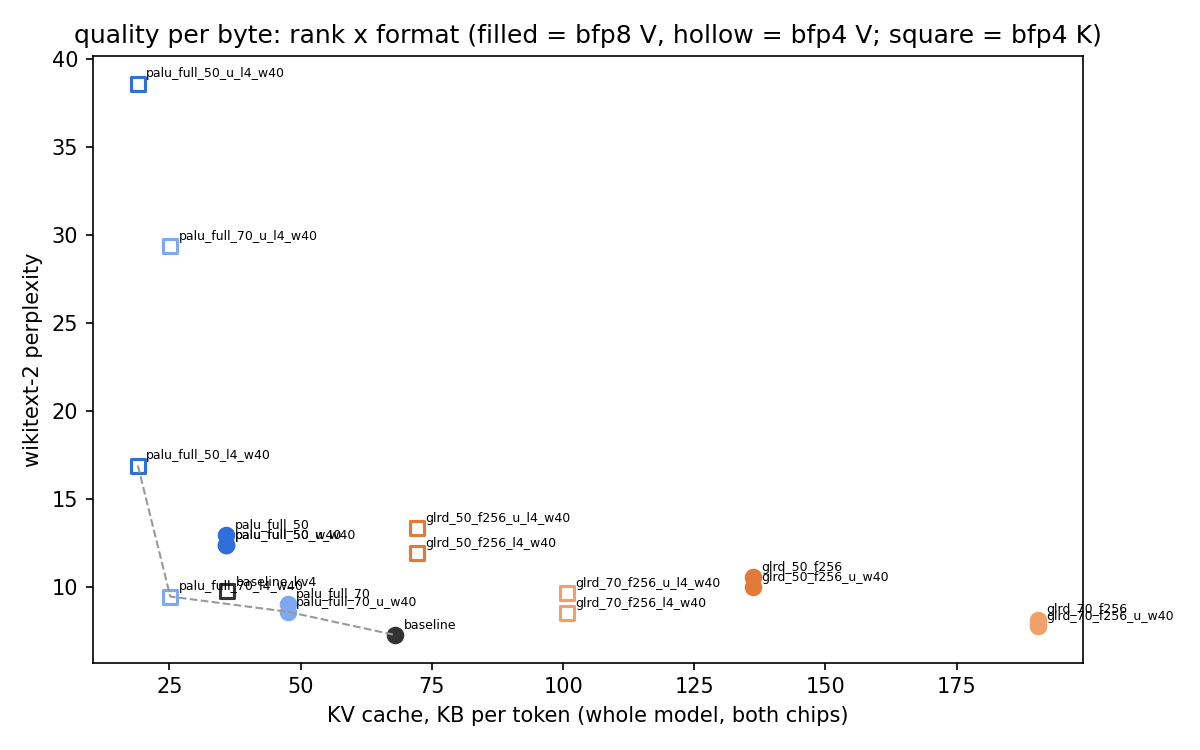
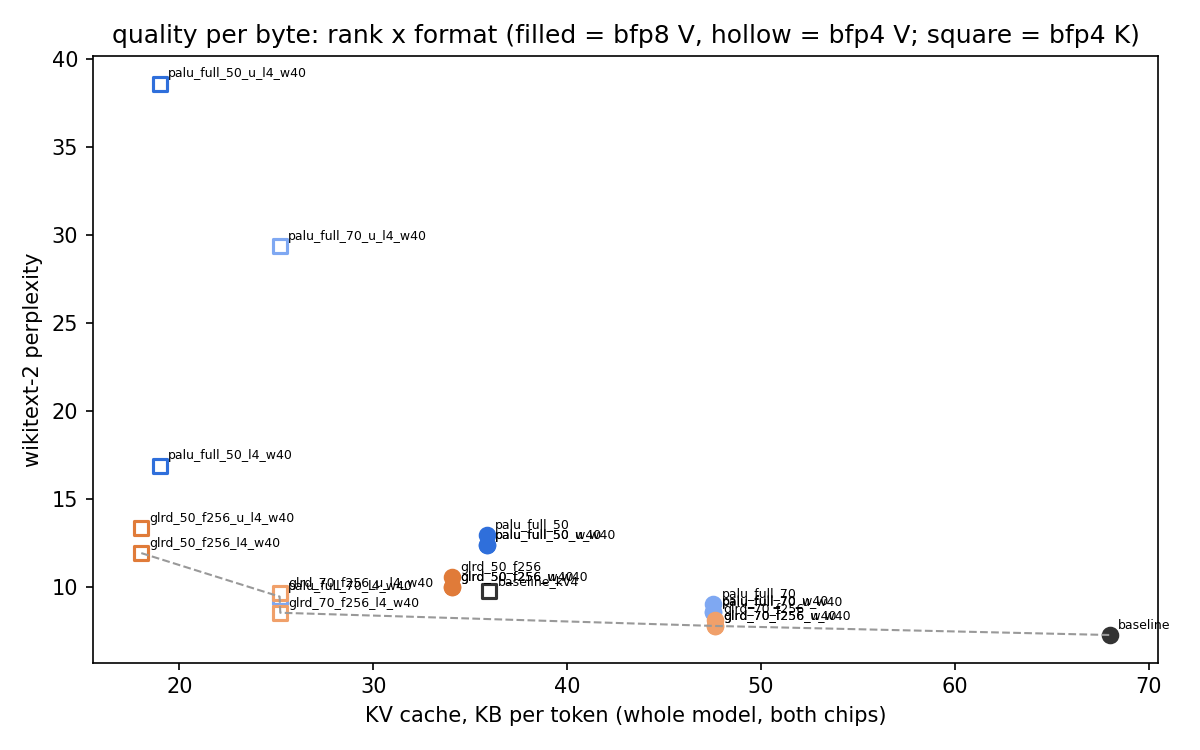
Stage 2f: frontier bytes follow the dump's groups per chip; decode/maxctx columns read the fused rows
Claude-Session: https://claude.ai/code/session_01SEbH3ediiqrAP9zmP59kKs

diff --git a/palu_tt/report.py b/palu_tt/report.py
@@ -1163,33 +1163,62 @@ def _stage2e_lines(raw, rows, loaded, steps):
 FRONTIER_RE = _re.compile(r"^(?P<dump>baseline|palu_full_50|palu_full_70|glrd_50_f256|glrd_70_f256|uni_rk\d+_rv\d+)"
                           r"(?P<kv4>_kv4)?(?P<u>_u)?(?P<fmt>_lk4|_lv4|_l4)?(?P<w40>_w40)?$")
 BPE = {"bfp8": 1.0625, "bfp4": 0.5625}  # bytes per tile element (spec sec 2)
-STOCK_BYTES_LAYER_CHIP = 4 * (HEAD_DIM * BPE["bfp8"] + HEAD_DIM * BPE["bfp8"])  # 1088 B, r_k=r_v=128 bfp8
+# Stock is 4 KV heads per chip (8 heads / 2 chips), group size 1 -- one latent group per head, so
+# this is unchanged by the groups-per-chip fix below (see ``_dump_ranks``).
+STOCK_GROUPS_PER_CHIP = 4
+STOCK_BYTES_LAYER_CHIP = STOCK_GROUPS_PER_CHIP * (HEAD_DIM * BPE["bfp8"] + HEAD_DIM * BPE["bfp8"])  # 1088 B bfp8
+
+
+def _config_groups_per_layer(cfg):
+    """Latent groups per layer for a Palu-recipe dump, from the length of one of ``head_wise_ranks``'s
+    own per-layer rank lists.
+
+    ``head_wise_ranks`` carries no explicit group-size field, so this length is the only place the
+    group count is recoverable: a per-head dump (group size 1, e.g. the M-LRD ``palu_full_*``
+    recipes) has one entry per KV head (8, for this model), while a group-shared dump (G-LRD, group
+    size 4) has one entry per *group* (2) -- ``convert.load_palu_dir``/``_per_layer_ranks`` already
+    zero-pad/broadcast these back out to per-head ranks for the device allocation, but the raw list
+    length here is the group count before that broadcast.
+    """
+    ranks = cfg["head_wise_ranks"]
+    return len(next(iter(ranks.values())))
 
 
 def _dump_ranks(dump, ranks):
-    """(mean r_k, mean r_v) for a dump: the caller's override, else derived from the dump itself.
+    """(mean r_k, mean r_v, groups per chip) for a dump: the caller's override, else derived from
+    the dump itself.
 
-    ``baseline`` is full rank by construction; a ``uni_rk<K>_rv<V>`` dump's ranks are in its own name;
-    every other dump is a Palu/G-LRD recipe whose per-layer ranks are read the same way ``_ranks``
-    reads them for stage 1/2/2b/2c -- via ``convert.load_palu_dir`` against its ``config.json``,
-    since a calibrated dump's per-head ranks are not uniform and only that reader gives the exact
-    per-layer allocation the device builds caches for. Every one of these rank sources is either the
-    caller's override, the row name, or a fixed path under ``compressed/`` -- never anything read
-    from a raw results dir -- so, unlike ``frontier_rows``' other per-row helpers, this one takes no
-    ``raw`` parameter.
+    ``baseline`` is full rank by construction, 4 KV heads per chip; a ``uni_rk<K>_rv<V>`` dump's
+    ranks are in its own name, also 4 (per-head, group size 1) heads per chip; every other dump is a
+    Palu/G-LRD recipe whose per-layer ranks are read the same way ``_ranks`` reads them for stage
+    1/2/2b/2c -- via ``convert.load_palu_dir`` against its ``config.json``, since a calibrated dump's
+    per-head ranks are not uniform and only that reader gives the exact per-layer allocation the
+    device builds caches for. Its groups-per-chip is derived from that same ``config.json`` (see
+    ``_config_groups_per_layer``): 4 for a per-head (M-LRD) dump, 1 for a group-shared (G-LRD, group
+    size 4) one, since the 8 KV heads are split evenly across the n300's two chips either way. Every
+    one of these rank sources is either the caller's override, the row name, or a fixed path under
+    ``compressed/`` -- never anything read from a raw results dir -- so, unlike ``frontier_rows``'
+    other per-row helpers, this one takes no ``raw`` parameter.
+
+    ``ranks``' override values may be a 2-tuple ``(r_k, r_v)``, which defaults groups-per-chip to 4
+    (a per-head dump, the common case in existing tests), or a 3-tuple ``(r_k, r_v, groups_per_chip)``
+    to also override the group count -- needed to exercise a group-shared (G-LRD-like) dump without
+    building a real ``compressed/`` recipe directory.
     """
     if dump in ranks:
-        return ranks[dump]
+        v = ranks[dump]
+        return (v[0], v[1], v[2]) if len(v) > 2 else (v[0], v[1], 4)
     if dump == "baseline":
-        return HEAD_DIM, HEAD_DIM
+        return HEAD_DIM, HEAD_DIM, STOCK_GROUPS_PER_CHIP
     if dump.startswith("uni_"):
         m = _re.match(r"uni_rk(\d+)_rv(\d+)", dump)
-        return int(m.group(1)), int(m.group(2))
+        return int(m.group(1)), int(m.group(2)), 4
     palu_dir = {"palu_full_50": "compressed/palu_full_0.5", "palu_full_70": "compressed/palu_full_0.7",
                 "glrd_50_f256": "compressed/glrd_0.5_f256", "glrd_70_f256": "compressed/glrd_0.7_f256"}[dump]
     cfg = json.loads((Path(palu_dir) / "config.json").read_text())
     rk, rv = _per_layer_ranks(Path(palu_dir), cfg)
-    return sum(rk) / len(rk), sum(rv) / len(rv)
+    groups_per_chip = _config_groups_per_layer(cfg) // CHIPS
+    return sum(rk) / len(rk), sum(rv) / len(rv), groups_per_chip
 
 
 def _row_is_blind(d, has_bfp4_latent_suffix):
@@ -1232,6 +1261,28 @@ def _check_row_fields(row, d, stock, k_fmt, v_fmt, scale):
                       + "; ".join(mismatches) + " -- trusting the name.")
 
 
+# A frontier row's decode_4k/maxctx columns must only ever show the fused Phase 2 decode kernel's
+# own numbers, never the naive (reconstruct-then-attend) row's -- see ``_frontier_fused_bench``.
+# Preference order: the shipped-default multicast variant (stage 2e) first, then plain fused Phase 2.
+FRONTIER_FUSED_SUFFIXES = ("_fk2dm", "_fk2")
+
+
+def _frontier_fused_bench(raw, what, row):
+    """``(data, suffix)`` for ``row``'s fused Phase 2 decode-kernel bench file, preferring
+    ``_fk2dm`` (the shipped-default rotation-kernel variant, stage 2e) over plain ``_fk2``; ``(None,
+    None)`` when neither exists.
+
+    ``bench_<what>_<row>.json`` (no suffix) is the naive, reconstruct-then-attend kernel for a
+    ``palu_full_*``/``glrd_*`` dump -- multiple times slower than the fused kernel it stands in for
+    on a decode-latency frontier -- and is never read here, on purpose, even as a fallback.
+    """
+    for suffix in FRONTIER_FUSED_SUFFIXES:
+        data = _load(raw, f"bench_{what}_{row}{suffix}")
+        if data is not None:
+            return data, suffix
+    return None, None
+
+
 def frontier_rows(raw, ranks=None):
     """One dict per stage 2f row found in ``raw`` (see module docstring and ``FRONTIER_RE``).
 
@@ -1253,20 +1304,21 @@ def frontier_rows(raw, ranks=None):
         k_fmt = "bfp4" if (fmt in ("_lk4", "_l4") or (stock and m.group("kv4"))) else "bfp8"
         v_fmt = "bfp4" if (fmt in ("_lv4", "_l4") or (stock and m.group("kv4"))) else "bfp8"
         scale = "unit" if m.group("u") else "balanced"
-        r_k, r_v = _dump_ranks(dump, ranks)
-        bytes_lc = 4 * (r_k * BPE[k_fmt] + r_v * BPE[v_fmt])
+        r_k, r_v, groups_per_chip = _dump_ranks(dump, ranks)
+        bytes_lc = groups_per_chip * (r_k * BPE[k_fmt] + r_v * BPE[v_fmt])
         d = json.loads(p.read_text())
         _check_row_fields(row, d, stock, k_fmt, v_fmt, scale)
         tsk = _load(raw, f"tasks_{row}")
-        dec = _load(raw, f"bench_decode_{row}")
-        mx = _load(raw, f"bench_maxctx_{row}")
+        dec, dec_sfx = _frontier_fused_bench(raw, "decode", row)
+        mx, mx_sfx = _frontier_fused_bench(raw, "maxctx", row)
         out.append({"row": row, "dump": dump, "r_k_mean": r_k, "r_v_mean": r_v, "k_fmt": k_fmt, "v_fmt": v_fmt,
                     "scale": scale, "bytes_layer_chip": bytes_lc,
                     "kb_token": bytes_lc * LAYERS * CHIPS / 1024, "reduction": STOCK_BYTES_LAYER_CHIP / bytes_lc,
                     "ppl": d["ppl"], "windows": d["windows"], "blind": _row_is_blind(d, fmt != ""),
                     "avg5": _avg5(tsk) if tsk else None,
-                    "decode_4k": _min_only(_cell(dec, "4096")) if dec else None,
-                    "maxctx": (mx.get("data") or {}).get("max_context_batch32") if mx else None})
+                    "decode_4k": _min_only(_cell(dec, "4096")) if dec else None, "decode_4k_suffix": dec_sfx,
+                    "maxctx": (mx.get("data") or {}).get("max_context_batch32") if mx else None,
+                    "maxctx_suffix": mx_sfx})
     return sorted(out, key=lambda r: (r["kb_token"], r["ppl"]))
 
 
@@ -1290,16 +1342,26 @@ def _stage2f_lines(raw):
         f"Generated by `python -m palu_tt.report --stage 2f` from `docs/results/raw/*.json` at "
         f"commit `{_commit()}`; tt-metal v0.78.0 plus the `palu-sdpa` submodule branch, TP=2 (one "
         "n300, two chips), non-paged, untraced decode. Bytes are per token, per layer, per chip: "
-        "`4 x (r_k x bpe_k + r_v x bpe_v)`, `bpe` 1.0625 for bfp8 and 0.5625 for bfp4 (stock is "
-        f"{STOCK_BYTES_LAYER_CHIP:.0f} B bfp8 / {STOCK_BYTES_LAYER_CHIP * BPE['bfp4'] / BPE['bfp8']:.0f} B "
-        "bfp4); `reduction` is stock bfp8 bytes / this row's bytes. `scale` is the latent scale "
-        "(`balanced`, Palu's default split, or `unit`, stage 2f's rescaled latents). `avg5` is the "
-        "same five-task zero-shot average as the earlier stages; `decode 4k`/`max ctx` are the fused "
-        "Phase 2 kernel's decode-step `min_ms` at 4096 and `bench --what maxctx` at batch 32. All "
-        "three are rendered only where measured -- most rows have none of them yet.",
+        "`groups_per_chip x (r_k x bpe_k + r_v x bpe_v)`, `bpe` 1.0625 for bfp8 and 0.5625 for bfp4. "
+        "`groups_per_chip` is the dump's own latent-group count per chip -- 4 for a per-head dump "
+        "(group size 1: `baseline`, `uni_*`, `palu_full_*`/M-LRD, the 8 KV heads split across the "
+        "n300's two chips) or 1 for a group-shared dump (G-LRD, group size 4: `glrd_*`, 2 groups per "
+        "layer split across the two chips), read from the dump's own `head_wise_ranks` (see "
+        f"`_config_groups_per_layer`); stock is {STOCK_BYTES_LAYER_CHIP:.0f} B bfp8 / "
+        f"{STOCK_BYTES_LAYER_CHIP * BPE['bfp4'] / BPE['bfp8']:.0f} B bfp4 either way, at "
+        f"{STOCK_GROUPS_PER_CHIP} groups/chip. `reduction` is stock bfp8 bytes / this row's bytes. "
+        "`scale` is the latent scale (`balanced`, Palu's default split, or `unit`, stage 2f's "
+        "rescaled latents). `avg5` is the same five-task zero-shot average as the earlier stages; "
+        "`decode 4k (fused)`/`max ctx (fused)` are the fused Phase 2 decode kernel's own decode-step "
+        "`min_ms` at 4096 and `bench --what maxctx` at batch 32 -- read from the row's "
+        "`bench_<what>_<row>_fk2dm.json` (the shipped-default rotation-kernel variant, stage 2e) when "
+        "present, else `bench_<what>_<row>_fk2.json`, and a dash otherwise; the row's own (naive, "
+        "reconstruct-then-attend) `bench_<what>_<row>.json` is never shown in these two columns, since "
+        "it is multiple times slower than the fused kernel it stands in for on a decode-latency "
+        "frontier. All three are rendered only where measured -- most rows have none of them yet.",
         "",
         "| row | dump | r_k | r_v | K fmt | V fmt | scale | B/token/layer/chip | KB/token (model) | "
-        "reduction | ppl (windows) | avg5 | decode 4k ms | max ctx |",
+        "reduction | ppl (windows) | avg5 | decode 4k ms (fused) | max ctx (fused) |",
         "|---|---|---|---|---|---|---|---|---|---|---|---|---|---|",
     ]
     if not rows:

diff --git a/tests/test_report.py b/tests/test_report.py
@@ -721,6 +721,96 @@ def test_frontier_rows_warns_when_a_rows_own_fields_disagree_with_its_name(tmp_p
         report.frontier_rows(raw2, ranks={"palu_full_70": (58, 121)})
 
 
+def test_config_groups_per_layer_reads_the_group_count_not_the_head_count(tmp_path):
+    """``_config_groups_per_layer`` must read the length of ``head_wise_ranks``'s own per-layer
+    lists -- one entry per *group* -- not ``num_key_value_heads`` (the real per-head count, which a
+    group-shared dump's config still carries in full)."""
+    from palu_tt import report
+
+    # A per-head dump (M-LRD, group size 1): one rank per KV head, 8 heads.
+    per_head_cfg = {"num_key_value_heads": 8, "head_wise_ranks": {
+        "model.layers.0.self_attn.k_proj": [64] * 8, "model.layers.0.self_attn.v_proj": [64] * 8}}
+    assert report._config_groups_per_layer(per_head_cfg) == 8
+
+    # A group-shared dump (G-LRD, group size 4): one rank per *group* (2), even though
+    # num_key_value_heads still says 8 -- this is exactly the field frontier_rows must not use here.
+    glrd_like_cfg = {"num_key_value_heads": 8, "head_wise_ranks": {
+        "model.layers.0.self_attn.k_proj": [113, 113], "model.layers.0.self_attn.v_proj": [400, 400]}}
+    assert report._config_groups_per_layer(glrd_like_cfg) == 2
+
+
+def test_frontier_rows_bytes_use_the_dumps_own_groups_per_chip(tmp_path):
+    """The defect this fixes: ``frontier_rows`` hard-coded 4 groups per chip for every dump, which is
+    right for a per-head dump (M-LRD, 8 KV heads / 2 chips) but wrong for a group-shared (G-LRD,
+    group size 4) dump -- 2 groups / 2 chips = 1, not 4. A glrd-like row at r_k=113, r_v=400, bfp8,
+    1 group/chip must come out to 545.0625 B (roughly 2x stock's 1088 B), not the old 2180.25 B
+    (roughly 0.5x) four-groups math would have produced.
+    """
+    from palu_tt import report
+    raw = tmp_path
+    (raw / "ppl_glrd_50_f256.json").write_text('{"ppl": 10.561, "windows": 141}')
+
+    rows = {r["row"]: r for r in report.frontier_rows(raw, ranks={"glrd_50_f256": (113, 400, 1)})}
+
+    r = rows["glrd_50_f256"]
+    expected = 1 * (113 * report.BPE["bfp8"] + 400 * report.BPE["bfp8"])
+    assert expected == pytest.approx(545.0625)
+    assert r["bytes_layer_chip"] == pytest.approx(expected)
+    assert r["reduction"] > 1.0   # a real reduction, not the old (wrong) < 1x "expansion"
+
+    # The 2-tuple override form (no explicit group count) must keep defaulting to 4 groups/chip, so
+    # every pre-existing test that overrides ranks as ``(r_k, r_v)`` keeps passing unchanged.
+    rows2 = {r["row"]: r for r in report.frontier_rows(raw, ranks={"glrd_50_f256": (113, 400)})}
+    assert rows2["glrd_50_f256"]["bytes_layer_chip"] == pytest.approx(4 * (113 + 400) * report.BPE["bfp8"])
+
+
+def test_frontier_decode_4k_and_maxctx_prefer_the_fused_bench_rows(tmp_path):
+    """decode_4k/maxctx must read the fused Phase 2 kernel's own bench file (``_fk2dm`` preferred
+    over plain ``_fk2``), never the row's own naive (reconstruct-then-attend) bench file -- even
+    though the naive file exists and is loadable."""
+    from palu_tt import report
+    raw = tmp_path
+    _write(raw, "ppl_palu_full_50", {"ppl": 12.931, "windows": 141})
+    # the naive row's own bench files -- must never surface in decode_4k/maxctx
+    _write(raw, "bench_decode_palu_full_50", {
+        "data": {"4096": {"p50_ms": 265.3, "min_ms": 265.3, "iters": 10}}})
+    _write(raw, "bench_maxctx_palu_full_50", {"data": {"max_context_batch32": 8192}})
+    # the shipped-default fused variant -- this is what must be shown
+    _write(raw, "bench_decode_palu_full_50_fk2dm", {
+        "data": {"4096": {"p50_ms": 55.6, "min_ms": 55.5, "iters": 10}}})
+    # a plain _fk2 maxctx file (no _fk2dm maxctx exists) -- the fallback tier must still be read
+    _write(raw, "bench_maxctx_palu_full_50_fk2", {"data": {"max_context_batch32": 16384}})
+
+    rows = {r["row"]: r for r in report.frontier_rows(raw, ranks={"palu_full_50": (33, 102)})}
+    r = rows["palu_full_50"]
+    assert r["decode_4k"] == "55.5"
+    assert r["decode_4k"] != "265.3"
+    assert r["maxctx"] == 16384
+    assert r["decode_4k_suffix"] == "_fk2dm"
+    assert r["maxctx_suffix"] == "_fk2"
+
+    out = tmp_path / "stage2f.md"
+    text = report.main(raw=raw, out=out, rows=report.ROWS2F, stage="2f")
+    line = next(l for l in text.splitlines() if l.startswith("| palu_full_50 |"))
+    assert "55.5" in line and "16384" in line
+    assert "265.3" not in line
+
+
+def test_frontier_decode_4k_and_maxctx_are_a_dash_with_no_fused_bench_row(tmp_path):
+    """A row with only the naive bench file (no ``_fk2``/``_fk2dm`` at all) must render a dash in
+    both columns rather than falling back to the naive row's number."""
+    from palu_tt import report
+    raw = tmp_path
+    _write(raw, "ppl_palu_full_70", {"ppl": 9.028, "windows": 141})
+    _write(raw, "bench_decode_palu_full_70", {"data": {"4096": {"min_ms": 262.8}}})
+    _write(raw, "bench_maxctx_palu_full_70", {"data": {"max_context_batch32": 8192}})
+
+    rows = {r["row"]: r for r in report.frontier_rows(raw, ranks={"palu_full_70": (58, 121)})}
+    r = rows["palu_full_70"]
+    assert r["decode_4k"] is None
+    assert r["maxctx"] is None
+
+
 def test_stage2f_lines_renders_from_a_fixture_raw_dir(tmp_path):
     """Full render of stage 2f's own table, through ``report.main(..., stage="2f")`` -- not just
     ``frontier_rows`` (the data layer). ``uni_rk64_rv32`` is used for the compressed-dump rows
@@ -742,7 +832,7 @@ def test_stage2f_lines_renders_from_a_fixture_raw_dir(tmp_path):
     assert out.read_text() == text
     assert "# Stage 2f results: the rank/format frontier" in text
     assert ("| row | dump | r_k | r_v | K fmt | V fmt | scale | B/token/layer/chip | KB/token (model) | "
-            "reduction | ppl (windows) | avg5 | decode 4k ms | max ctx |") in text
+            "reduction | ppl (windows) | avg5 | decode 4k ms (fused) | max ctx (fused) |") in text
 
     # Byte cells: stock bfp8 (1088 B / 68.00 KB, reduction 1.00x) and bfp4 (576 B / 36.00 KB, 1.89x),
     # and the uniform-rank row's own bfp8/bfp4 byte pair (408 B / 216 B at r_k=64, r_v=32).

diff --git a/docs/results/stage2f.md b/docs/results/stage2f.md
@@ -1,30 +1,33 @@
 # Stage 2f results: the rank/format frontier
 
-Generated by `python -m palu_tt.report --stage 2f` from `docs/results/raw/*.json` at commit `69afa00`; tt-metal v0.78.0 plus the `palu-sdpa` submodule branch, TP=2 (one n300, two chips), non-paged, untraced decode. Bytes are per token, per layer, per chip: `4 x (r_k x bpe_k + r_v x bpe_v)`, `bpe` 1.0625 for bfp8 and 0.5625 for bfp4 (stock is 1088 B bfp8 / 576 B bfp4); `reduction` is stock bfp8 bytes / this row's bytes. `scale` is the latent scale (`balanced`, Palu's default split, or `unit`, stage 2f's rescaled latents). `avg5` is the same five-task zero-shot average as the earlier stages; `decode 4k`/`max ctx` are the fused Phase 2 kernel's decode-step `min_ms` at 4096 and `bench --what maxctx` at batch 32. All three are rendered only where measured -- most rows have none of them yet.
+Generated by `python -m palu_tt.report --stage 2f` from `docs/results/raw/*.json` at commit `cd003db`; tt-metal v0.78.0 plus the `palu-sdpa` submodule branch, TP=2 (one n300, two chips), non-paged, untraced decode. Bytes are per token, per layer, per chip: `groups_per_chip x (r_k x bpe_k + r_v x bpe_v)`, `bpe` 1.0625 for bfp8 and 0.5625 for bfp4. `groups_per_chip` is the dump's own latent-group count per chip -- 4 for a per-head dump (group size 1: `baseline`, `uni_*`, `palu_full_*`/M-LRD, the 8 KV heads split across the n300's two chips) or 1 for a group-shared dump (G-LRD, group size 4: `glrd_*`, 2 groups per layer split across the two chips), read from the dump's own `head_wise_ranks` (see `_config_groups_per_layer`); stock is 1088 B bfp8 / 576 B bfp4 either way, at 4 groups/chip. `reduction` is stock bfp8 bytes / this row's bytes. `scale` is the latent scale (`balanced`, Palu's default split, or `unit`, stage 2f's rescaled latents). `avg5` is the same five-task zero-shot average as the earlier stages; `decode 4k (fused)`/`max ctx (fused)` are the fused Phase 2 decode kernel's own decode-step `min_ms` at 4096 and `bench --what maxctx` at batch 32 -- read from the row's `bench_<what>_<row>_fk2dm.json` (the shipped-default rotation-kernel variant, stage 2e) when present, else `bench_<what>_<row>_fk2.json`, and a dash otherwise; the row's own (naive, reconstruct-then-attend) `bench_<what>_<row>.json` is never shown in these two columns, since it is multiple times slower than the fused kernel it stands in for on a decode-latency frontier. All three are rendered only where measured -- most rows have none of them yet.
 
-| row | dump | r_k | r_v | K fmt | V fmt | scale | B/token/layer/chip | KB/token (model) | reduction | ppl (windows) | avg5 | decode 4k ms | max ctx |
+| row | dump | r_k | r_v | K fmt | V fmt | scale | B/token/layer/chip | KB/token (model) | reduction | ppl (windows) | avg5 | decode 4k ms (fused) | max ctx (fused) |
 |---|---|---|---|---|---|---|---|---|---|---|---|---|---|
+| glrd_50_f256_l4_w40 | glrd_50_f256 | 113 | 400 | bfp4 | bfp4 | balanced | 288.6 | 18.04 | 3.77x | 11.909 (40) | - | - | - |
+| glrd_50_f256_u_l4_w40 | glrd_50_f256 | 113 | 400 | bfp4 | bfp4 | unit | 288.6 | 18.04 | 3.77x | 13.339 (40) | - | - | - |
 | palu_full_50_l4 | palu_full_50 | 33 | 102 | bfp4 | bfp4 | balanced | 303.8 | 18.98 | 3.58x | blind (141) | - | - | - |
 | palu_full_50_l4_w40 | palu_full_50 | 33 | 102 | bfp4 | bfp4 | balanced | 303.8 | 18.98 | 3.58x | 16.883 (40) | - | - | - |
 | palu_full_50_u_l4_w40 | palu_full_50 | 33 | 102 | bfp4 | bfp4 | unit | 303.8 | 18.98 | 3.58x | 38.590 (40) | - | - | - |
 | palu_full_70_l4 | palu_full_70 | 58 | 121 | bfp4 | bfp4 | balanced | 402.8 | 25.17 | 2.70x | blind (141) | - | - | - |
 | palu_full_70_l4_w40 | palu_full_70 | 58 | 121 | bfp4 | bfp4 | balanced | 402.8 | 25.17 | 2.70x | 9.438 (40) | - | - | - |
 | palu_full_70_u_l4_w40 | palu_full_70 | 58 | 121 | bfp4 | bfp4 | unit | 402.8 | 25.17 | 2.70x | 29.364 (40) | - | - | - |
+| glrd_70_f256_l4_w40 | glrd_70_f256 | 234 | 483 | bfp4 | bfp4 | balanced | 403.3 | 25.21 | 2.70x | 8.519 (40) | - | - | - |
+| glrd_70_f256_u_l4_w40 | glrd_70_f256 | 234 | 483 | bfp4 | bfp4 | unit | 403.3 | 25.21 | 2.70x | 9.641 (40) | - | - | - |
+| glrd_50_f256_u_w40 | glrd_50_f256 | 113 | 400 | bfp8 | bfp8 | unit | 545.1 | 34.07 | 2.00x | 9.965 (40) | - | - | - |
+| glrd_50_f256_w40 | glrd_50_f256 | 113 | 400 | bfp8 | bfp8 | balanced | 545.1 | 34.07 | 2.00x | 9.995 (40) | - | - | - |
+| glrd_50_f256 | glrd_50_f256 | 113 | 400 | bfp8 | bfp8 | balanced | 545.1 | 34.07 | 2.00x | 10.561 (141) | 60.78 | 105.8 | - |
 | palu_full_50_u_w40 | palu_full_50 | 33 | 102 | bfp8 | bfp8 | unit | 573.8 | 35.86 | 1.90x | 12.356 (40) | - | - | - |
 | palu_full_50_w40 | palu_full_50 | 33 | 102 | bfp8 | bfp8 | balanced | 573.8 | 35.86 | 1.90x | 12.366 (40) | - | - | - |
-| palu_full_50 | palu_full_50 | 33 | 102 | bfp8 | bfp8 | balanced | 573.8 | 35.86 | 1.90x | 12.931 (141) | 55.84 | 265.3 | 8192 |
+| palu_full_50 | palu_full_50 | 33 | 102 | bfp8 | bfp8 | balanced | 573.8 | 35.86 | 1.90x | 12.931 (141) | 55.84 | 55.5 | 8192 |
 | baseline_kv4 | baseline | 128 | 128 | bfp4 | bfp4 | balanced | 576.0 | 36.00 | 1.89x | 9.764 (141) | - | - | - |
 | palu_full_70_u_w40 | palu_full_70 | 58 | 121 | bfp8 | bfp8 | unit | 760.8 | 47.55 | 1.43x | 8.576 (40) | - | - | - |
-| palu_full_70 | palu_full_70 | 58 | 121 | bfp8 | bfp8 | balanced | 760.8 | 47.55 | 1.43x | 9.028 (141) | 61.50 | 262.8 | 8192 |
-| baseline | baseline | 128 | 128 | bfp8 | bfp8 | balanced | 1088.0 | 68.00 | 1.00x | 7.254 (141) | 65.44 | 55.4 | 4096 |
-| glrd_50_f256_l4_w40 | glrd_50_f256 | 113 | 400 | bfp4 | bfp4 | balanced | 1154.2 | 72.14 | 0.94x | 11.909 (40) | - | - | - |
-| glrd_50_f256_u_l4_w40 | glrd_50_f256 | 113 | 400 | bfp4 | bfp4 | unit | 1154.2 | 72.14 | 0.94x | 13.339 (40) | - | - | - |
-| glrd_70_f256_l4_w40 | glrd_70_f256 | 234 | 483 | bfp4 | bfp4 | balanced | 1613.2 | 100.83 | 0.67x | 8.519 (40) | - | - | - |
-| glrd_70_f256_u_l4_w40 | glrd_70_f256 | 234 | 483 | bfp4 | bfp4 | unit | 1613.2 | 100.83 | 0.67x | 9.641 (40) | - | - | - |
-| glrd_50_f256_u_w40 | glrd_50_f256 | 113 | 400 | bfp8 | bfp8 | unit | 2180.2 | 136.27 | 0.50x | 9.965 (40) | - | - | - |
-| glrd_50_f256 | glrd_50_f256 | 113 | 400 | bfp8 | bfp8 | balanced | 2180.2 | 136.27 | 0.50x | 10.561 (141) | 60.78 | - | - |
-| glrd_70_f256_u_w40 | glrd_70_f256 | 234 | 483 | bfp8 | bfp8 | unit | 3047.2 | 190.45 | 0.36x | 7.769 (40) | - | - | - |
-| glrd_70_f256 | glrd_70_f256 | 234 | 483 | bfp8 | bfp8 | balanced | 3047.2 | 190.45 | 0.36x | 8.135 (141) | 64.53 | - | - |
+| palu_full_70_w40 | palu_full_70 | 58 | 121 | bfp8 | bfp8 | balanced | 760.8 | 47.55 | 1.43x | 8.578 (40) | - | - | - |
+| palu_full_70 | palu_full_70 | 58 | 121 | bfp8 | bfp8 | balanced | 760.8 | 47.55 | 1.43x | 9.028 (141) | 61.50 | 56.9 | - |
+| glrd_70_f256_u_w40 | glrd_70_f256 | 234 | 483 | bfp8 | bfp8 | unit | 761.8 | 47.61 | 1.43x | 7.769 (40) | - | - | - |
+| glrd_70_f256_w40 | glrd_70_f256 | 234 | 483 | bfp8 | bfp8 | balanced | 761.8 | 47.61 | 1.43x | 7.776 (40) | - | - | - |
+| glrd_70_f256 | glrd_70_f256 | 234 | 483 | bfp8 | bfp8 | balanced | 761.8 | 47.61 | 1.43x | 8.135 (141) | 64.53 | 121.5 | - |
+| baseline | baseline | 128 | 128 | bfp8 | bfp8 | balanced | 1088.0 | 68.00 | 1.00x | 7.254 (141) | 65.44 | - | - |
 
 A `ppl` cell of `blind` is a row measured before the cache-faithful prefill (stage 2f Task 1b): its perplexity comes from a prefill-only instrument that reconstructs K/V from the bf16 latent before the forward pass and never touches the stored cache dtype, so it is identical to the row's bfp8 sibling by construction and is not evidence about that format -- see stage 2e's L4 section and the `note` field on the row's own `ppl_*.json`.
 
